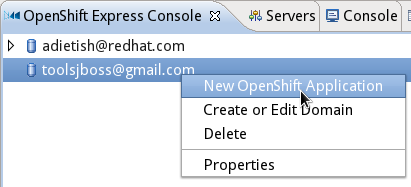
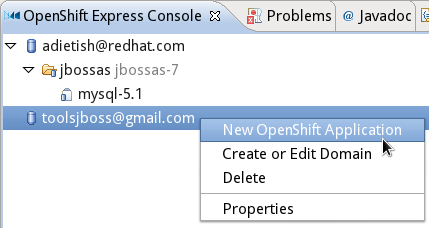
[JBIDE-11031] wrinting N&N for OpenShift
git-svn-id: http://svn.jboss.org/repos/jbosstools/trunk@39403 a97e2381-89e5-4abb-bab3-167db6db766c

diff --git a/documentation/whatsnew/openshift/openshift-news-3.3.0.Beta1.html b/documentation/whatsnew/openshift/openshift-news-3.3.0.Beta1.html
@@ -6,7 +6,7 @@
 <meta http-equiv="Content-Language" content="en-us" />
 <meta http-equiv="Content-Type" content="text/html; charset=iso-8859-1" />
 <link rel="stylesheet" href="../whatsnew.css" />
-<title>OpenShift Tools 2.3.0.Beta1 What's New</title>
+<title>OpenShift Tools 3.3.0.Beta1 What's New</title>
 <script type="text/javascript">
 	var _gaq = _gaq || [];
 	_gaq.push([ '_setAccount', 'UA-17645367-5' ]);
@@ -25,7 +25,7 @@
 </script>
 </head>
 <body>
-	<h1>OpenShift 2.3.0.Beta1 What's New</h1>
+	<h1>OpenShift 3.3.0.Beta1 What's New</h1>
 
 	<p align="right">
 		<a href="../index.html">&lt; Main Index</a> <a
@@ -33,6 +33,24 @@
 	</p>
 	<table border="0" cellpadding="10" cellspacing="0" width="80%">
 
+		<tr>
+			<td colspan="2">
+				<hr />
+				<h3>General</h3>
+				<hr />
+			</td>
+		</tr>
+		<tr>
+			<td valign="top" align="left">
+				<a name="itemname3" id="itemname3"></a>
+				<b>Complete overhaul</b>
+			</td>
+			<td valign="top">
+			Beta1 brought big changes to the <b>OpenShift Tools</b> in JBoss Tools. We tackled three times the amount of tickets we did in M5 (a total of 160). 
+			We introduced the new <b>OpenShift Express console</b>, we split the single <b>wizard</b> into several ones with concise aims and
+			we brought a new <b>OpenShift Server adapter</b> with its own runtime. The new adapter may publish source and binary artifacts to the PaaS.    
+			</td>
+		</tr>
 		<tr>
 			<td colspan="2">
 				<hr />
@@ -46,15 +64,11 @@
 				<b>OpenShift Express Console</b>
 			</td>
 			<td valign="top">
-			    We reworked the whole UI for OpenShift in JBoss Tools 3.3.0 Beta1. What was a single wizard in M5 is now split up
-				into different parts with concise aims. The central entry point is now what we call the <b>OpenShift Express console</b>.
-				<p>
+			    The central entry point is now what we call the <b>OpenShift Express console</b>.
+				It lists your accounts and applications. Actions in the context menu allow you manage your user accounts, domains, applications, embedded cartridges etc.<p>
 					<img src="images/openshift-console.png"	alt="OpenShift Express Console" />
 				</p> 
-				The OpenShift Express console will list your accounts and
-				applications.  It allows you to manage your resources on the Red Hat
-				PaaS. Actions in the context menu allow you to create new users,
-				manage domains, applications, etc. <br />
+				 <br />
 				<p>
 					<small>
 						<a href="https://issues.jboss.org/browse/JBIDE-10528">Related Jira</a>
@@ -62,6 +76,7 @@
 				</p>
 			</td>
 		</tr>
+		<tr><td colspan="2"><hr/></td></tr>
 		<tr>
 			<td valign="top" align="left"><a name="itemname3" id="itemname3"></a>
 				<b>Properties</b>
@@ -77,12 +92,13 @@
 				</p>
 			</td>
 		</tr>
+		<tr><td colspan="2"><hr/></td></tr>
 		<tr>
 			<td valign="top" align="left"><a name="itemname3" id="itemname3"></a>
 				<b>User passwords</b>
 			</td>
 			<td valign="top">
-				We now allow you to store your OpenShift user password in the secure storage. 
+				We now allow you to store your OpenShift user password in the <b>secure storage</b>. 
 				You wont have to retype it over and over again. 
 				<p>
 					<img src="images/secure-storage.png"/>
@@ -94,19 +110,62 @@
 				</p>
 			</td>
 		</tr>
+		<tr><td colspan="2"><hr/></td></tr>
 		<tr>
 			<td valign="top" align="left"><a name="itemname3" id="itemname3"></a>
 				<b>Embedded cartridges</b>
 			</td>
 			<td valign="top">
-				You may now add embed or remove cartridges from an existing application by choosing the appropriate
-				entry in the context menu. We now offer a separate wizard for that sake.
-				<p>
-					<img src="images/menu-edit-embedded-cartridges.png"/>
-				</p>
+				You may now add or remove embedded cartridges for your applications. Beta1 offers it's own wizard for that sake.
 				<p>
 					<img src="images/edit-embedded-cartridges.png"/>
 				</p>
+			</td>
+		</tr>
+		<tr>
+			<td colspan="2">
+				<hr />
+				<h3>Creation and Import Wizards</h3>
+				<hr />
+			</td>
+		</tr>
+		<tr>
+			<td valign="top" align="left"><a name="itemname3" id="itemname3"></a>
+				<b>Create Application</b></td>
+			<td valign="top">
+			You may now create a new <b>OpenShift application</b> and import it to your workspace in a single hop. 
+			Choose name, type, embedded cartridges and get over to the settings for your local project.
+			<p>
+				<img src="images/wizard-new-application.png"/>
+			</p>
+			The next page allows you to choose to import the application to a <b>new project</b> 
+			or to enable OpenShift for an existing project in your workspace. 
+			<br /><p>
+				<img src="images/wizard-project.png" />
+			</p>
+			On last wizard page, you're able to pick custom settings when dealing with the OpenShift <b>git application repository</b>.
+			The default settings are usually just fine and you can leave them alone. 
+			<p>
+				<img src="images/wizard-git.png" />
+			</p>
+			A further option allows you to create the <b>OpenShift Express Server</b> adapter for easy publishing.
+			<br /><br />As soon as you finish the wizard, the whole process is executed: the tolling will create the application, import it to your workspace
+			and create the server adapter for you.
+			</td>
+		</tr>
+		<tr><td colspan="2"><hr/></td></tr>
+		<tr>
+			<td valign="top" align="left"><a name="itemname3" id="itemname3"></a>
+				<b>Import Application</b></td>
+			<td valign="top">
+			When importing, the application creation wizard will preselect the application you've chosen in the express console.
+			<p>
+				<img src="images/wizard-import.png" />
+			</p>
+			You may of course also make up your mind and choose another OpenShift application. A separate dialog allows you to pick among the applications you're currently running on your your Paas.
+			<p>
+				<img src="images/wizard-select-existing.png" />
+			</p>
 			</td>
 		</tr>
 		<tr>
@@ -120,21 +179,28 @@
 			<td valign="top" align="left"><a name="itemname3" id="itemname3"></a>
 				<b>OpenShift Server Runtime</b></td>
 			<td valign="top">
-				You may now create the server adapter for an <b>OpenShift
-				Express Application</b> by choosing <b>Create a Server Adapter</b> in the
-				context menu of the <b>OpenShift Express Console</b>
+				In M5 the <b>server adapter</b> was only created when importing an OpenShift application. 
+				Beta1 improves this a lot and allows you to exclusively create the server adapter. 
+				Choose <b>Create a Server Adapter</b> in the
+				context menu of the <b>OpenShift Express Console</b> and here you go, you get a fresh adapter for your
+				existing OpenShift applciation.
 				<p>
 					<img src="images/console-create-a-server-adapter.png" alt="create server adapter" />
 				</p>
-				You may now also create the server adapter like any other Eclipse WTP server adapter by invoking the <b>new server wizard</b>
+				We always tried to stick to the Eclipse standards and therefore now also allow you to create the adapter like 
+				any other Eclipse WTP server adapter. Choose the Eclipse <b>new server wizard</b> and pick the
+				<b>OpenShift Express Server</b>.
 				<p>
 					<img src="images/server-adapter-wizard.png" />
 				</p>
+				The second wizard page configures all OpenShift specific settings: Your credentials, the OpenShift applicaton 
+				and your workspace project. 
 				<p>
 					<img src="images/server-adapter-wizard-2.png" />
 				</p>
-				The new OpenShift Server Adapter is not bound to JBoss AS7 any longer, it has it's own runtime. 
-				The adapter may therefore now also publish to non-java applications.
+				The new OpenShift Server Adapter is not bound to JBoss AS7 any more, it has it's own runtime. 
+				You may therefore use it to publish to <b>any OpenShift application</b>. The prior limitation that restricted 
+				you to publish to jbossas-7 applications only, is gone. 
 				<p>
 					<small>
 						<a href="https://issues.jboss.org/browse/JBIDE-10716">Related Jira</a>
@@ -142,16 +208,17 @@
 				</p>
 			</td>
 		</tr>
+		<tr><td colspan="2"><hr/></td></tr>
 		<tr>
 			<td valign="top" align="left"><a name="itemname3" id="itemname3"></a>
 				<b>OpenShift Server Editor</b></td>
 			<td valign="top">
-				The OpenShift <b>Server Editor</b> now reports
+				The <b>Server Editor</b> now reports all relevant informations that are involved when publishing the 
+				workspace project to the OpenShift PaaS. 
+				You'll find the project, the OpenShift application, the host, user name, git branch and deployments directory.
 				<p>
 					<img src="images/server-editor.png" />
 				</p>
-				The <b>Server Editor</b> now reports all relevant details of the <b>workspace project</b> it will publish to the <b>OpenShift PaaS</b>. 
-				You'll find the project, the OpenShift application, the host, user name, git branch and deployments directory.
 				<p>
 					<small>
 						<a href="https://issues.jboss.org/browse/JBIDE-10716">Related Jira</a>
@@ -159,6 +226,7 @@
 				</p>
 			</td>
 		</tr>
+		<tr><td colspan="2"><hr/></td></tr>
 		<tr>
 			<td valign="top" align="left"><a name="itemname3" id="itemname3"></a>
 				<b>Source & Binary Deployment</b></td>
@@ -171,23 +239,10 @@
 				you always could with  Eclipse WTP server adapters.
 				The adapter will build wars for these projects, 
 				copy them to the <b>deployments</b> folder of your project (the project the adapter is bound to)
-				and push them to the OpenShift application. JBoss AS7.1, will then pick those wars and deploy them. 
+				and push them to the OpenShift application. The JBoss AS7.1 will then pick those wars and deploy them. 
 				This is what we call the <b>binary</b> mode where binary artifacts are published to OpenShift.
 			</td>
 		</tr>
-		<tr>
-			<td colspan="2">
-				<hr />
-				<h3>Import wizards</h3>
-				<hr />
-			</td>
-		</tr>
-		<tr>
-			<td valign="top" align="left"><a name="itemname3" id="itemname3"></a>
-				<b>Existing projects</b></td>
-			<td valign="top">
-			
-			</td>
 	</table>
 </body>
 
